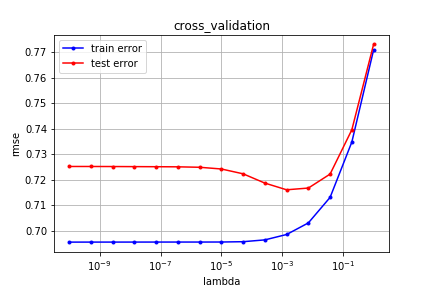
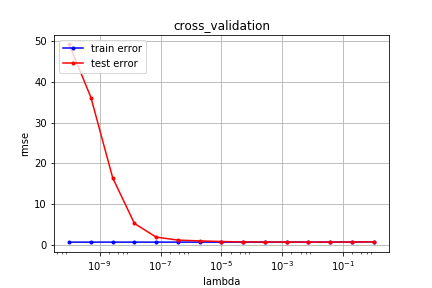
Fix cv and add new features

diff --git a/Project_1/helpers.py b/Project_1/helpers.py
@@ -14,7 +14,7 @@ def standardize(x):
     return x, mean_x, std_x
 
 
-def build_poly(x, end, combination, square_combination, square_root_combination):
+def build_poly(x, end, combination, square_combination, square_root_combination, cubic_root_combination):
     ''' 
     Create new features as input
     First create polynomial basis of degree end
@@ -25,7 +25,8 @@ def build_poly(x, end, combination, square_combination, square_root_combination)
     for col in x.transpose():
         pol = np.array([col**d for d in range(1, end+1)]).transpose()
         matrix_poly = np.concatenate((matrix_poly,pol),1)
-        
+    if cubic_root_combination:
+        matrix_poly = np.concatenate((matrix_poly,np.cbrt(comb)), 1)
     if combination:
         matrix_poly = np.concatenate((matrix_poly, comb), 1)
     if square_combination:

diff --git a/Project_1/cross_validation.py b/Project_1/cross_validation.py
@@ -21,9 +21,9 @@ def cross_validation_visualization(lambds, mse_tr, mse_te):
 def cross_validation(y, x, k_indices, k, lambda_, w_initial, gamma):
     """return the loss of ridge regression."""
     x_test = x[k_indices[k]]
-    x_train = np.delete(x,k_indices[k])
+    x_train = np.delete(x,k_indices[k], 0)
     y_test = y[k_indices[k]]
-    y_train = np.delete(y,k_indices[k])
+    y_train = np.delete(y,k_indices[k], 0)
     
     #test_setX = build_poly(test_setX, 1,degree)
     #train_setX = build_poly(train_setX,1, degree)
